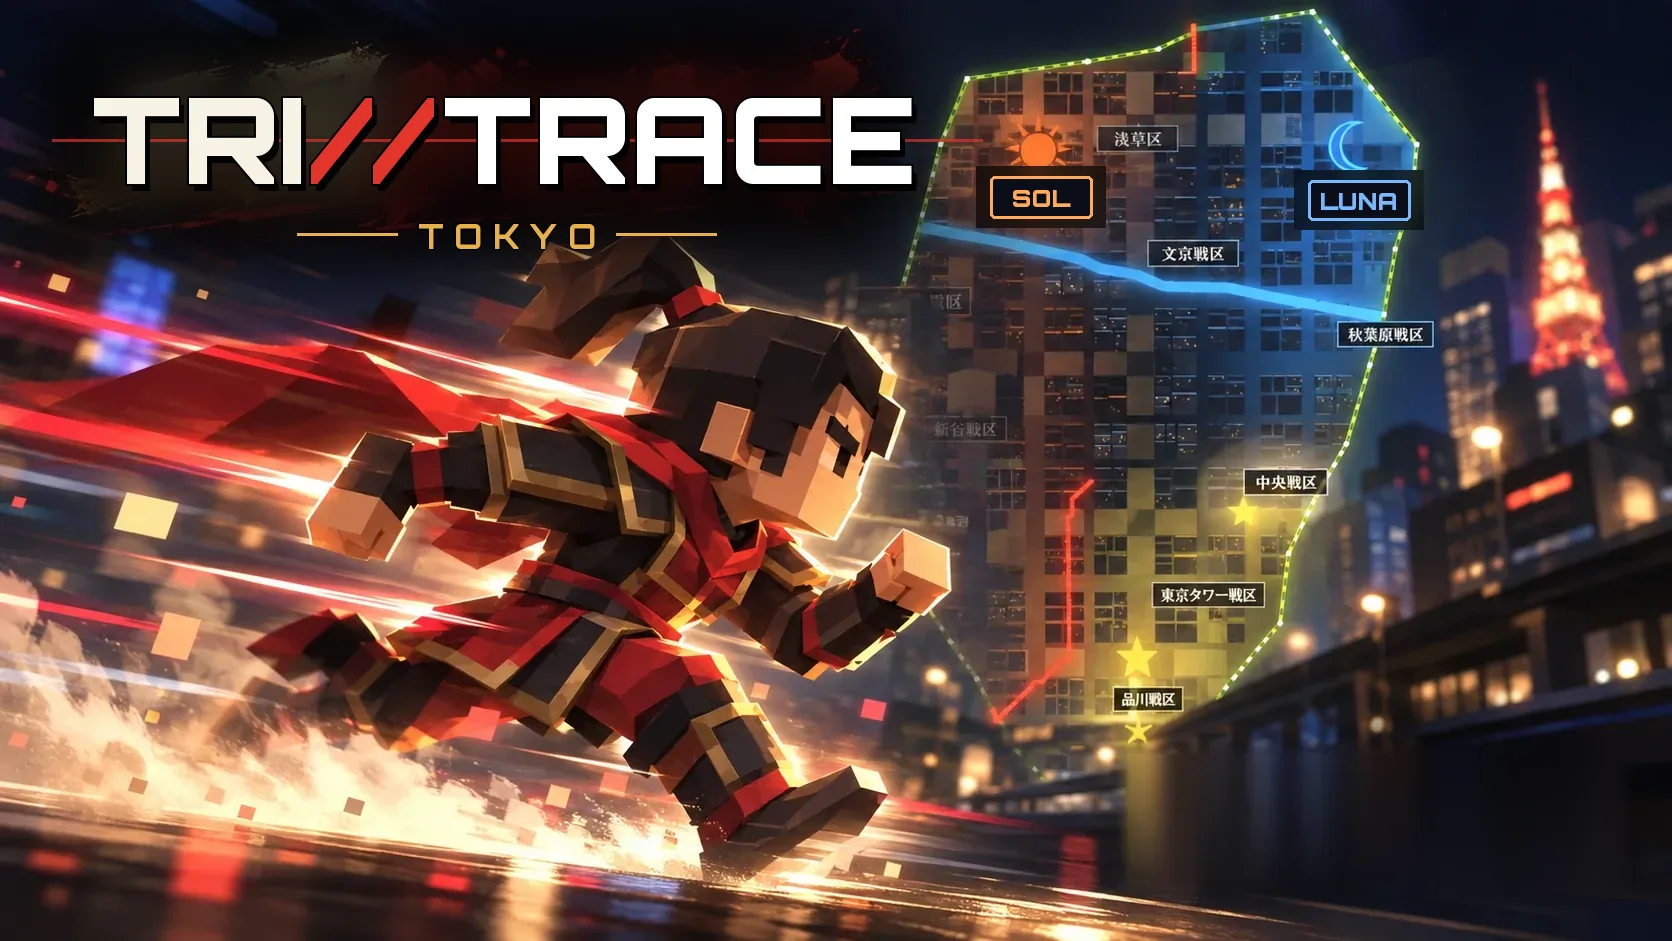
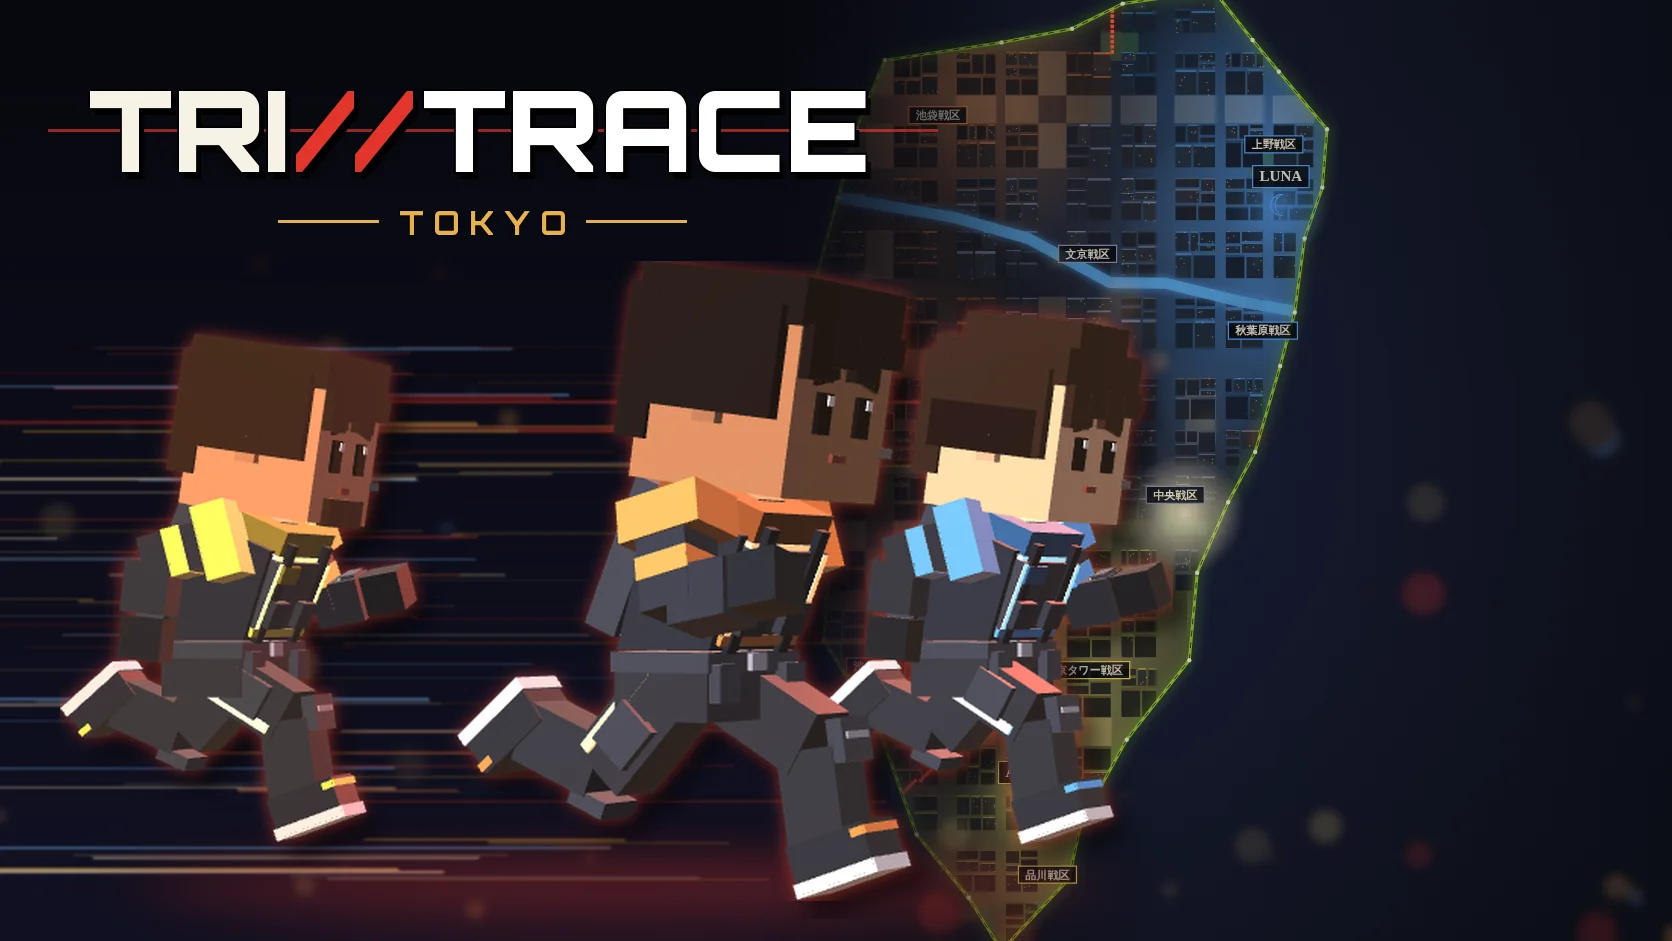
v8.2: loading art from in-game characters; clearer, more neutral base lighting
Claude-Session: https://claude.ai/code/session_019LrbAEapUAkaVTiktpcMTM

diff --git a/tools/keyart.ts b/tools/keyart.ts
@@ -1,0 +1,53 @@
+// Developer tool (not part of the game build): renders the three faction operators in
+// running poses on a transparent background, for the loading-screen key art.
+import * as THREE from 'three';
+import { buildHuman } from '../src/render/humanModel';
+import { NATIONS } from '../src/config/nations';
+import { emblemTexture } from '../src/render/textures';
+
+THREE.ColorManagement.enabled = false;
+const canvas = document.getElementById('c') as HTMLCanvasElement;
+const renderer = new THREE.WebGLRenderer({ canvas, antialias: true, alpha: true, preserveDrawingBuffer: true });
+renderer.outputColorSpace = THREE.LinearSRGBColorSpace;
+renderer.setPixelRatio(1);
+renderer.setSize(innerWidth, innerHeight, false);
+renderer.setClearColor(0x000000, 0);
+const scene = new THREE.Scene();
+const L = Math.PI;
+// Night city light: cool fill, a warm key from the front-left, a red rim from behind.
+scene.add(new THREE.HemisphereLight(0x8a9ad0, 0x2a2430, 0.8 * L));
+const key = new THREE.DirectionalLight(0xffc896, 1.15 * L); key.position.set(-50, 60, 90); scene.add(key);
+const rim = new THREE.DirectionalLight(0xff4a3a, 1.2 * L); rim.position.set(60, 30, -80); scene.add(rim);
+const rim2 = new THREE.DirectionalLight(0x6fb0ff, 0.7 * L); rim2.position.set(-80, 20, -40); scene.add(rim2);
+
+type Set = (b: string, x: number, y: number, z: number) => void;
+/** A sprinting pose: torso leaning in, one knee driving forward, arms pumping. `m` mirrors the stride. */
+function run(set: Set, m: 1 | -1, lean = 0.32) {
+  const [F, B] = m === 1 ? ['L', 'R'] : ['R', 'L'];
+  set('spine', lean, 0, 0); set('chest', 0.08, 0, 0); set('head', -0.25, 0, 0);
+  set(`thigh${F}`, -1.05, 0, 0); set(`shin${F}`, 0.9, 0, 0); set(`foot${F}`, -0.2, 0, 0);
+  set(`thigh${B}`, 0.75, 0, 0); set(`shin${B}`, 1.2, 0, 0); set(`foot${B}`, 0.5, 0, 0);
+  set(`arm${F}`, 0.9, 0, F === 'L' ? 0.15 : -0.15); set(`fore${F}`, -1.2, 0, 0);
+  set(`arm${B}`, -0.65, 0, B === 'L' ? 0.25 : -0.25); set(`fore${B}`, -1.5, 0, 0);
+}
+
+const cast = [
+  { n: 'sun' as const, id: 3, x: 0, z: 30, rot: 0.8, m: 1 as const, s: 1.0 },
+  { n: 'moon' as const, id: 10, x: 34, z: -12, rot: 0.75, m: -1 as const, s: 1.0 },
+  { n: 'star' as const, id: 17, x: -30, z: -26, rot: 1.1, m: -1 as const, s: 1.0 },
+];
+for (const c of cast) {
+  const em = new THREE.MeshStandardMaterial({ map: emblemTexture(NATIONS[c.n].emblem, NATIONS[c.n].color), roughness: 0.8 });
+  const h = buildHuman(c.id, NATIONS[c.n].color, em);
+  h.mesh.position.set(c.x, 0, c.z);
+  h.mesh.rotation.y = c.rot;
+  h.mesh.scale.setScalar(c.s);
+  run((b, x, y, z) => h.bones[b as keyof typeof h.bones].rotation.set(x, y, z), c.m);
+  h.bones.hips.position.y -= 1.5;
+  scene.add(h.mesh);
+}
+const camera = new THREE.PerspectiveCamera(30, innerWidth / innerHeight, 1, 3000);
+camera.position.set(-40, 22, 210);
+camera.lookAt(2, 27, 0);
+renderer.render(scene, camera);
+(window as unknown as { done: boolean }).done = true;

diff --git a/src/render/sceneBuilder.ts b/src/render/sceneBuilder.ts
@@ -31,11 +31,12 @@ export interface SceneRefs {
 const L = Math.PI;
 
 const COLORS = {
-  // Dusk over Tokyo: deep blue overhead, a burning horizon, violet haze in the streets.
-  skyTop: 0x1d2a52,
-  skyMid: 0x6c5a8c,
-  skyHorizon: 0xf2955a,
-  fog: 0x8a7a8c,
+  // Early evening over Tokyo (v8.1: clearer and more neutral than the old violet dusk, so
+  // the streets read easily): blue overhead, a warm horizon, a light grey-blue haze.
+  skyTop: 0x2c4a86,
+  skyMid: 0x7f95c2,
+  skyHorizon: 0xf2b07e,
+  fog: 0xa3a9bc,
   stone: 0xb5ab98,
   stoneCap: 0x5f574b,
   plaster: 0xe4d8c0,
@@ -105,10 +106,10 @@ const SUN_DIST = 5000;
 
 function buildLights(scene: THREE.Scene): { sun: THREE.DirectionalLight; hemi: THREE.HemisphereLight; amb: THREE.AmbientLight } {
   // Dusk: a cool blue sky fill, warm low sun (long shadows).
-  const hemi = new THREE.HemisphereLight(0xa6b2de, 0x4a3e44, 0.72 * L);
-  const amb = new THREE.AmbientLight(0x6a6f96, 0.12 * L);
+  const hemi = new THREE.HemisphereLight(0xc4cfee, 0x6a6458, 0.92 * L);
+  const amb = new THREE.AmbientLight(0x8a90a8, 0.16 * L);
   scene.add(hemi, amb);
-  const sun = new THREE.DirectionalLight(0xffb27a, 1.0 * L);
+  const sun = new THREE.DirectionalLight(0xffe0c2, 1.05 * L);
   sun.position.copy(SUN_DIR).multiplyScalar(SUN_DIST);
   sun.castShadow = true;
   const coarse = typeof matchMedia === 'function' && matchMedia('(pointer: coarse)').matches;
@@ -708,7 +709,7 @@ export function updateStreetLights(refs: SceneRefs, x: number, z: number, y = 0)
 
 const DUSK = {
   top: new THREE.Color(COLORS.skyTop), mid: new THREE.Color(COLORS.skyMid), horizon: new THREE.Color(COLORS.skyHorizon), fog: new THREE.Color(COLORS.fog),
-  sun: new THREE.Color(0xffb27a), hemiSky: new THREE.Color(0xa6b2de), hemiGround: new THREE.Color(0x4a3e44),
+  sun: new THREE.Color(0xffe0c2), hemiSky: new THREE.Color(0xc4cfee), hemiGround: new THREE.Color(0x6a6458),
 };
 const NIGHT = {
   // A city night, not a blackout: a glowing sky over Tokyo, bright moonlight, lit haze.
@@ -733,11 +734,11 @@ export function setNightfall(refs: SceneRefs, k: number): void {
   (refs.scene.background as THREE.Color).copy(fog.color);
   fog.far = FOG_FAR - 1400 * k;
   mix(DUSK.sun, NIGHT.sun, refs.sun.color);
-  refs.sun.intensity = (1.0 - 0.45 * k) * L;
+  refs.sun.intensity = (1.05 - 0.5 * k) * L;
   mix(DUSK.hemiSky, NIGHT.hemiSky, n.hemi.color);
   mix(DUSK.hemiGround, NIGHT.hemiGround, n.hemi.groundColor);
-  n.hemi.intensity = (0.72 + 0.1 * k) * L;
-  n.amb.intensity = (0.12 + 0.16 * k) * L;
+  n.hemi.intensity = (0.92 - 0.1 * k) * L;
+  n.amb.intensity = (0.16 + 0.12 * k) * L;
   for (const g of NIGHT_GLOW) g.set(k);
 }
 

diff --git a/index.html b/index.html
@@ -3,7 +3,7 @@
 <head>
 <meta charset="UTF-8">
 <meta name="viewport" content="width=device-width, initial-scale=1, viewport-fit=cover">
-<title>TRI//TRACE : TOKYO v8.1 — 3勢力の3D追跡ストラテジー（ブラウザで無料）</title>
+<title>TRI//TRACE : TOKYO v8.2 — 3勢力の3D追跡ストラテジー（ブラウザで無料）</title>
 <meta name="description" content="TRI//TRACE : TOKYO は、東京・山手線内の9戦区を舞台に3勢力が戦う、ブラウザで遊べる無料の3D追跡ストラテジー。敵部隊に隠されたANCHORを推理して追い、背後からTRACEしてLOCK POINTへ拘束せよ。CPU戦（初級〜超級）と友達との対人戦に対応。インストール不要・スマホ対応。">
 <meta name="keywords" content="TRI//TRACE,TRI TRACE TOKYO,トライトレース,追跡,推理,3勢力,東京,ブラウザゲーム,無料ゲーム,3Dゲーム,オンライン対戦">
 <meta name="robots" content="index, follow">
@@ -74,7 +74,7 @@
         <canvas id="setupMap" aria-hidden="true"></canvas>
         <section id="titleScreen" class="title-screen">
           <div class="title-inner">
-            <div class="logo"><h1 class="tt-logo" aria-label="TRI//TRACE : TOKYO"><span class="tt-tri">TRI</span><span class="tt-slash" aria-hidden="true">//</span><span class="tt-trace">TRACE</span></h1><span class="seal ver">v8.1</span></div>
+            <div class="logo"><h1 class="tt-logo" aria-label="TRI//TRACE : TOKYO"><span class="tt-tri">TRI</span><span class="tt-slash" aria-hidden="true">//</span><span class="tt-trace">TRACE</span></h1><span class="seal ver">v8.2</span></div>
             <div class="logo-sub tt-sub"><span>TOKYO</span></div>
             <p class="tagline">3勢力。9戦区。敵のANCHORを追え。<br><span>東京を駆け、痕跡を追い、敵勢力の中枢をLOCKせよ。</span></p>
             <div class="title-menu">

diff --git a/tools/keyart.html b/tools/keyart.html
@@ -1,0 +1,4 @@
+<!doctype html>
+<html lang="ja"><head><meta charset="utf-8"><title>Key art render</title>
+<style>html,body{margin:0;height:100%;background:transparent}canvas{display:block;width:100%;height:100%}</style></head>
+<body><canvas id="c"></canvas><script type="module" src="./keyart.ts"></script></body></html>

diff --git a/CHANGELOG.md b/CHANGELOG.md
@@ -1,5 +1,13 @@
 # Changelog
 
+## v8.2 — 新しいロード画面・見やすい色
+
+- ロード画面の絵を作り直し: ゲーム内のキャラクター（SOL・LUNA・ASTER の3人、近未来の装備）が走る姿を、
+  ゲームのキャラクターモデルでそのまま描き、タイトル画面の東京戦区マップと TRI//TRACE のロゴを重ねた
+  （以前の絵は使わない。描画用の開発ツール `tools/keyart.html`）
+- ゲーム全体のベース色を見やすく: 紫がかった夕暮れをやめ、澄んだ夕方の空・白っぽい日差し・明るい空の光・
+  灰青色の薄いもやに。建物・道路・キャラクターの色が素直に見える。夜は同じ割合で暗くなる（以前より明るい）
+
 ## v8.1 — 近未来の装備
 
 - キャラクターの見た目を近未来の東京の部隊員に（ゲーム性・当たり判定・アニメーションは同じ）

diff --git a/README.md b/README.md
@@ -1,4 +1,4 @@
-# TRI//TRACE : TOKYO v8.1
+# TRI//TRACE : TOKYO v8.2
 
 **3勢力。9戦区。敵のANCHORを追え。**
 
